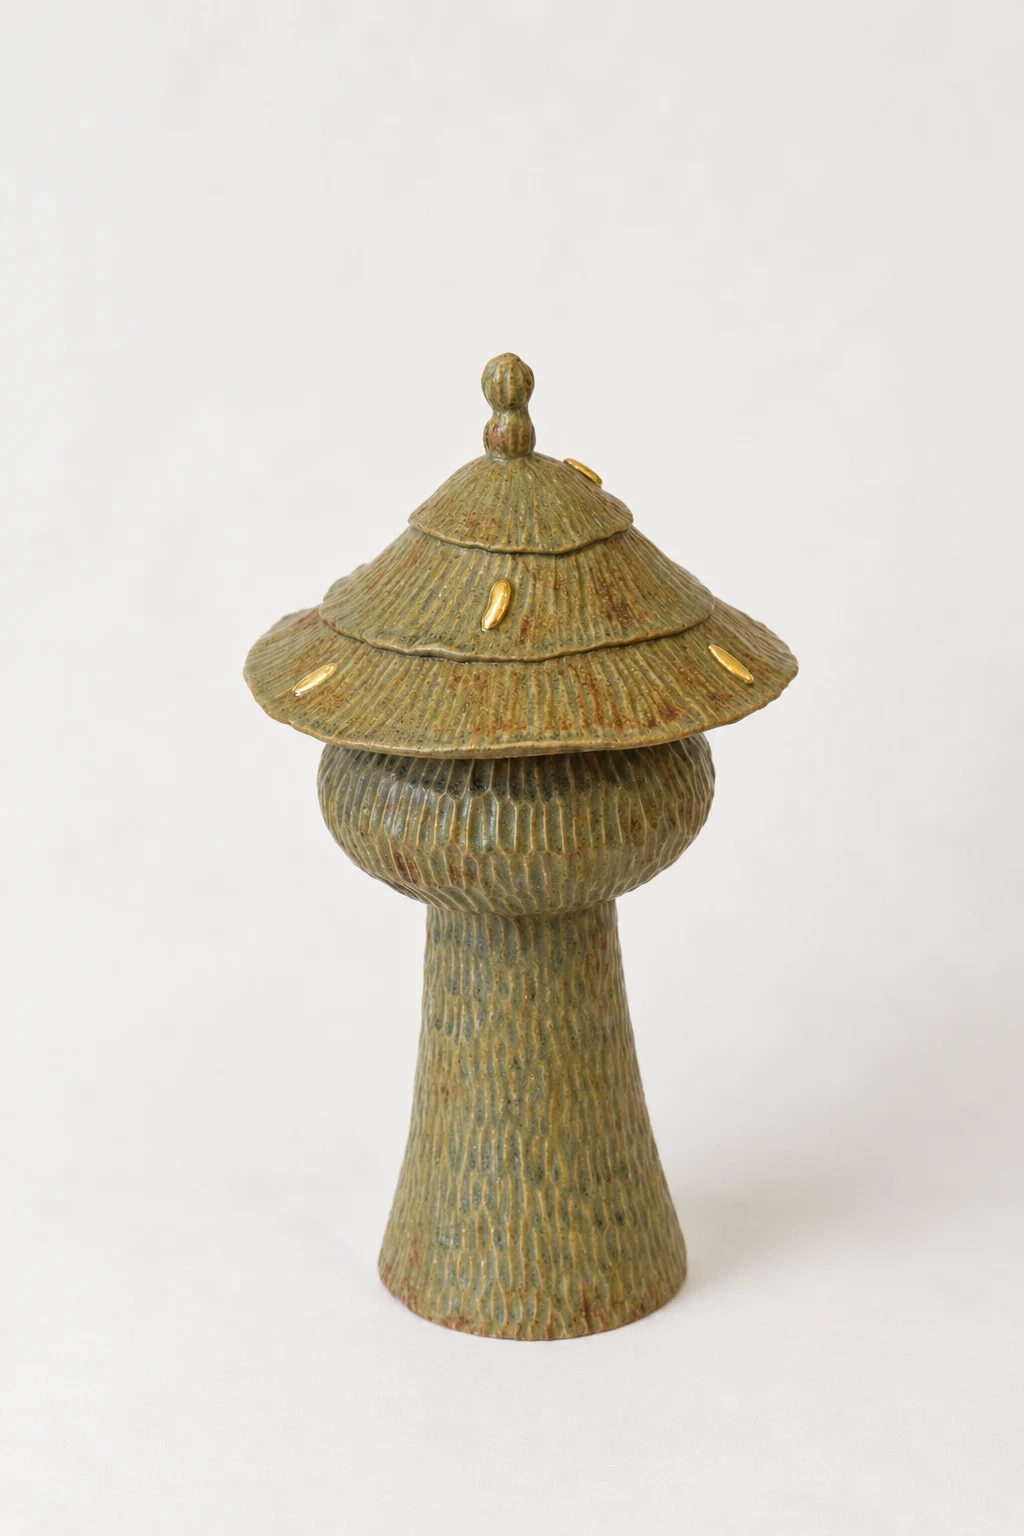
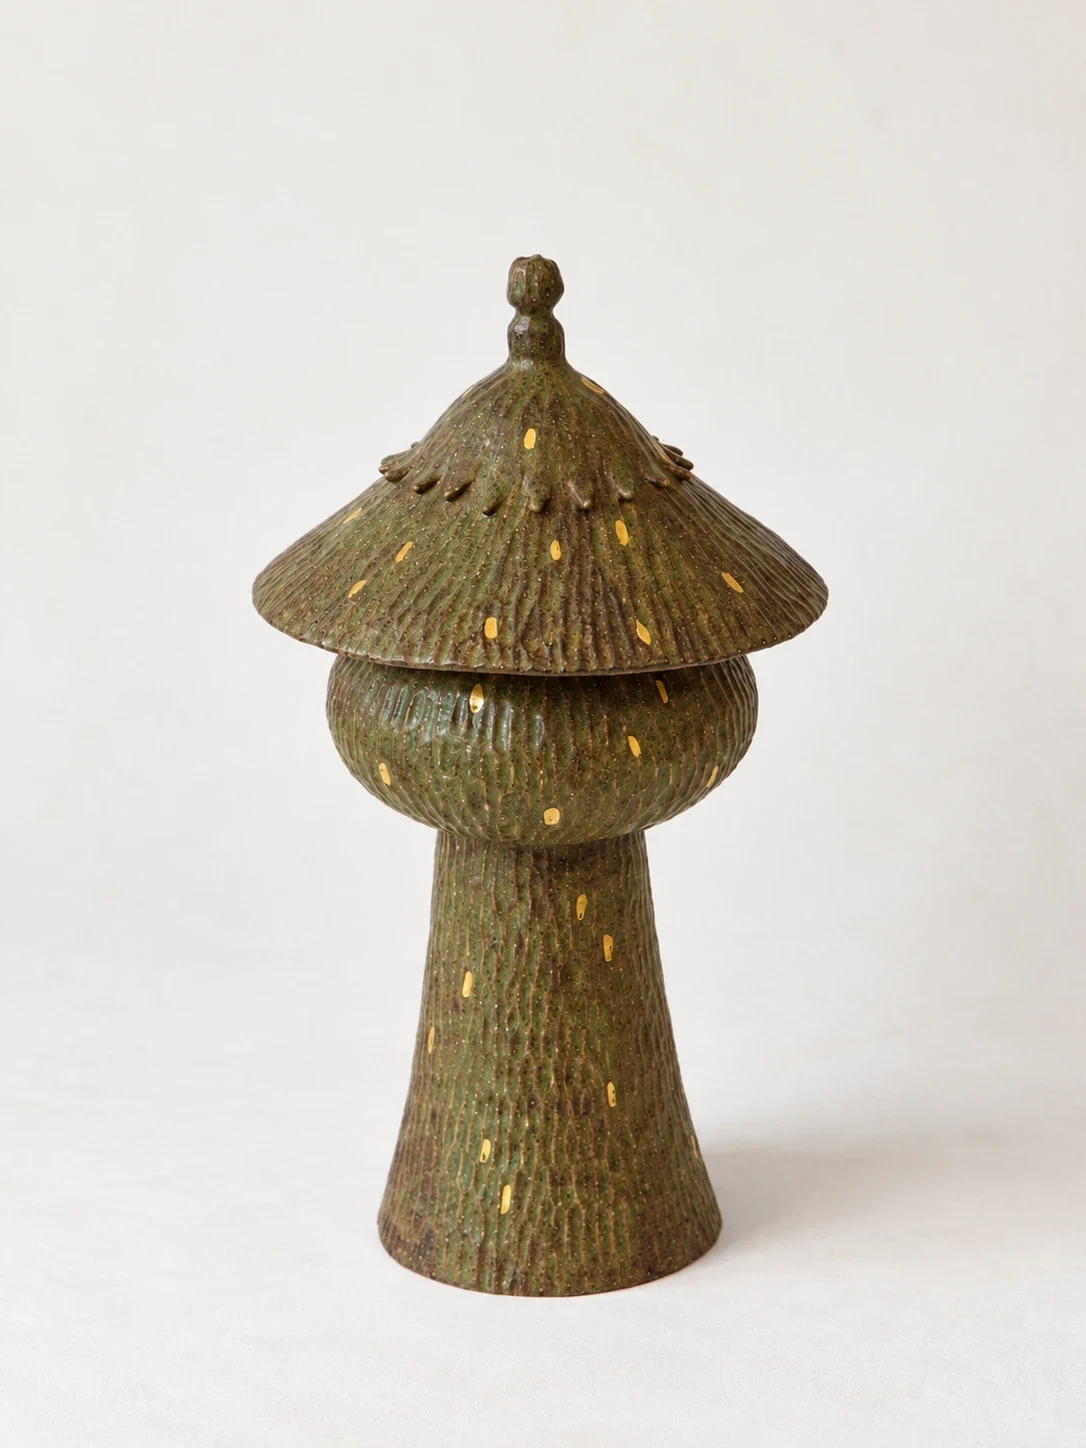
Swap the Mini Teoju 2 and 3 photographs and show the Neve Beill collaboration in the artwork details

Changed region(s): [[0.2188, 0.1554, 0.8125, 0.9012]]

diff --git a/src/content.config.ts b/src/content.config.ts
@@ -21,7 +21,7 @@ const artworks = defineCollection({
   schema: z.object({
     id: z.string(), artistSlug: z.string(), slug: z.string(), title: z.string(), artistName: z.string(),
     dimensions: z.string(), materials: z.string(), price: z.string().nullable(), mainImage: mediaReference, cardImage: mediaReference.optional(), gallery: z.array(mediaItem),
-    detailVariant: z.enum(["legacy", "figma-2026"]).default("legacy"), year: z.number().int().optional(), tileMedium: z.string().optional(), sold: z.boolean().default(false),
+    detailVariant: z.enum(["legacy", "figma-2026"]).default("legacy"), year: z.number().int().optional(), tileMedium: z.string().optional(), sold: z.boolean().default(false), collaborator: z.string().optional(),
     relatedIds: z.array(z.string()), seoDescription: z.string(), sourceWpId: z.number().nullable(),
   }),
 });

diff --git a/src/content/artworks/jihyun-kim/mini-teoju-2.md b/src/content/artworks/jihyun-kim/mini-teoju-2.md
@@ -8,13 +8,12 @@ dimensions: "17cm(l) x 17cm(w) x 31cm(h)"
 materials: "Excavated Clay, Porcelain, Excavated clay glaze, Gold Lustre"
 price: "£940"
 mainImage: "/assets/artworks/jihyun-kim/mini-teoju-2.webp"
-gallery: [{"src":"/assets/artworks/jihyun-kim/mini-teoju-2.webp","alt":"Mini Teoju 2 by Jihyun Kim in collaboration with Neve Beill, a carved green-glazed clay vessel with a tiered conical lid and gold lustre"}]
+gallery: [{"src":"/assets/artworks/jihyun-kim/mini-teoju-2.webp","alt":"Mini Teoju 2 by Jihyun Kim in collaboration with Neve Beill, a carved green-glazed clay vessel flecked with gold lustre"}]
 detailVariant: "figma-2026"
+collaborator: "Neve Beill"
 relatedIds: ["jihyun-kim/teoju","zahed-tajeddin/bowing-bull","jacob-chan/ginger-jar","rickie-cheuk/chopsticks"]
 seoDescription: "Mini Teoju 2 by Jihyun Kim in collaboration with Neve Beill. Excavated Clay, Porcelain, Excavated clay glaze, Gold Lustre."
 sourceWpId: null
 ---
-
-*In collaboration with Neve Beill.*
 
 Teoju is inspired by the Korean god Teojusin, traditionally represented as the god of land, who protects the earth where the home is located. Jihyun Kim gives the form new ground by working with earth excavated from beneath London homes.

diff --git a/src/content/artworks/jihyun-kim/mini-teoju-3.md b/src/content/artworks/jihyun-kim/mini-teoju-3.md
@@ -8,13 +8,12 @@ dimensions: "17cm(l) x 17cm(w) x 31cm(h)"
 materials: "Excavated Clay, Porcelain, Excavated clay glaze, Gold Lustre"
 price: "£940"
 mainImage: "/assets/artworks/jihyun-kim/mini-teoju-3.webp"
-gallery: [{"src":"/assets/artworks/jihyun-kim/mini-teoju-3.webp","alt":"Mini Teoju 3 by Jihyun Kim in collaboration with Neve Beill, a carved green-glazed clay vessel flecked with gold lustre"}]
+gallery: [{"src":"/assets/artworks/jihyun-kim/mini-teoju-3.webp","alt":"Mini Teoju 3 by Jihyun Kim in collaboration with Neve Beill, a carved green-glazed clay vessel with a tiered conical lid and gold lustre"}]
 detailVariant: "figma-2026"
+collaborator: "Neve Beill"
 relatedIds: ["jihyun-kim/teoju","zahed-tajeddin/bowing-bull","jacob-chan/ginger-jar","rickie-cheuk/chopsticks"]
 seoDescription: "Mini Teoju 3 by Jihyun Kim in collaboration with Neve Beill. Excavated Clay, Porcelain, Excavated clay glaze, Gold Lustre."
 sourceWpId: null
 ---
-
-*In collaboration with Neve Beill.*
 
 Teoju is inspired by the Korean god Teojusin, traditionally represented as the god of land, who protects the earth where the home is located. Jihyun Kim gives the form new ground by working with earth excavated from beneath London homes.
